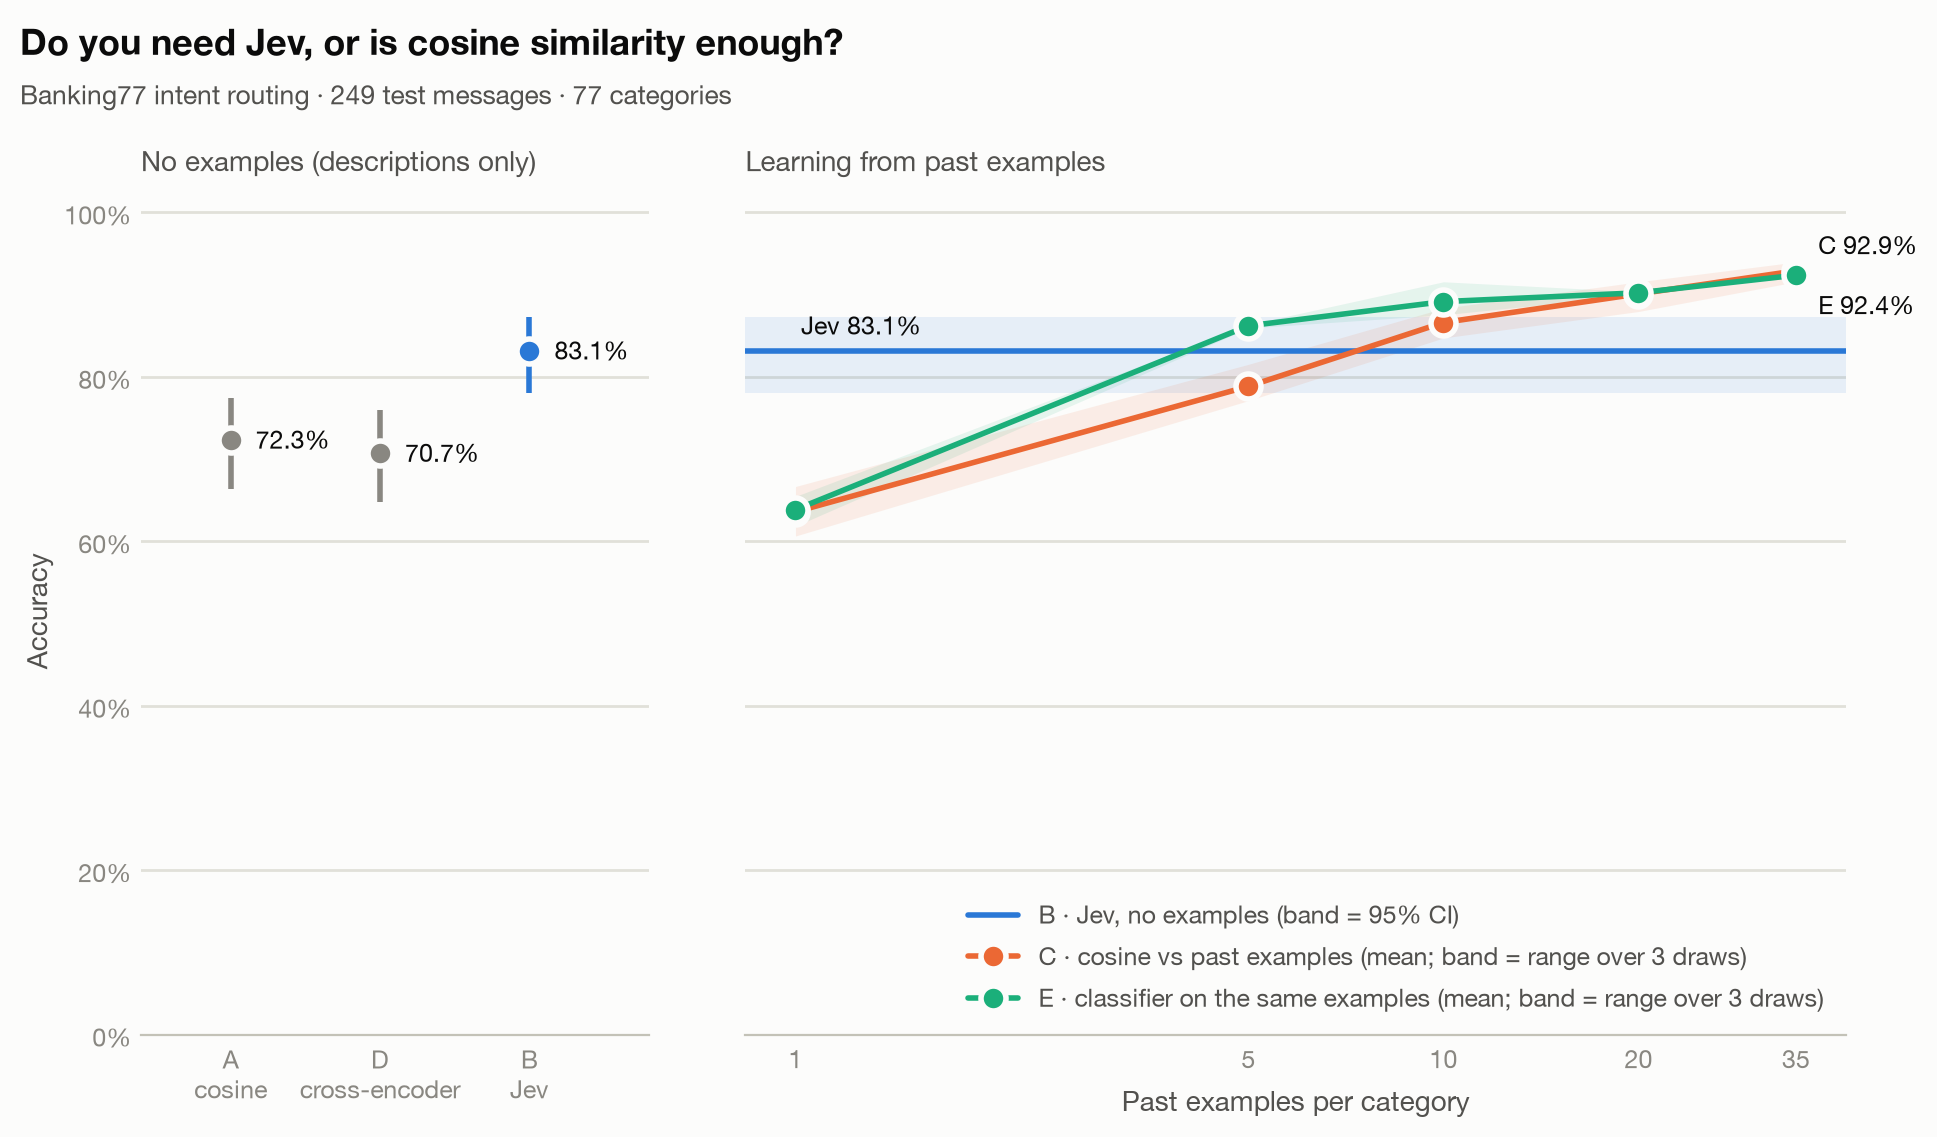
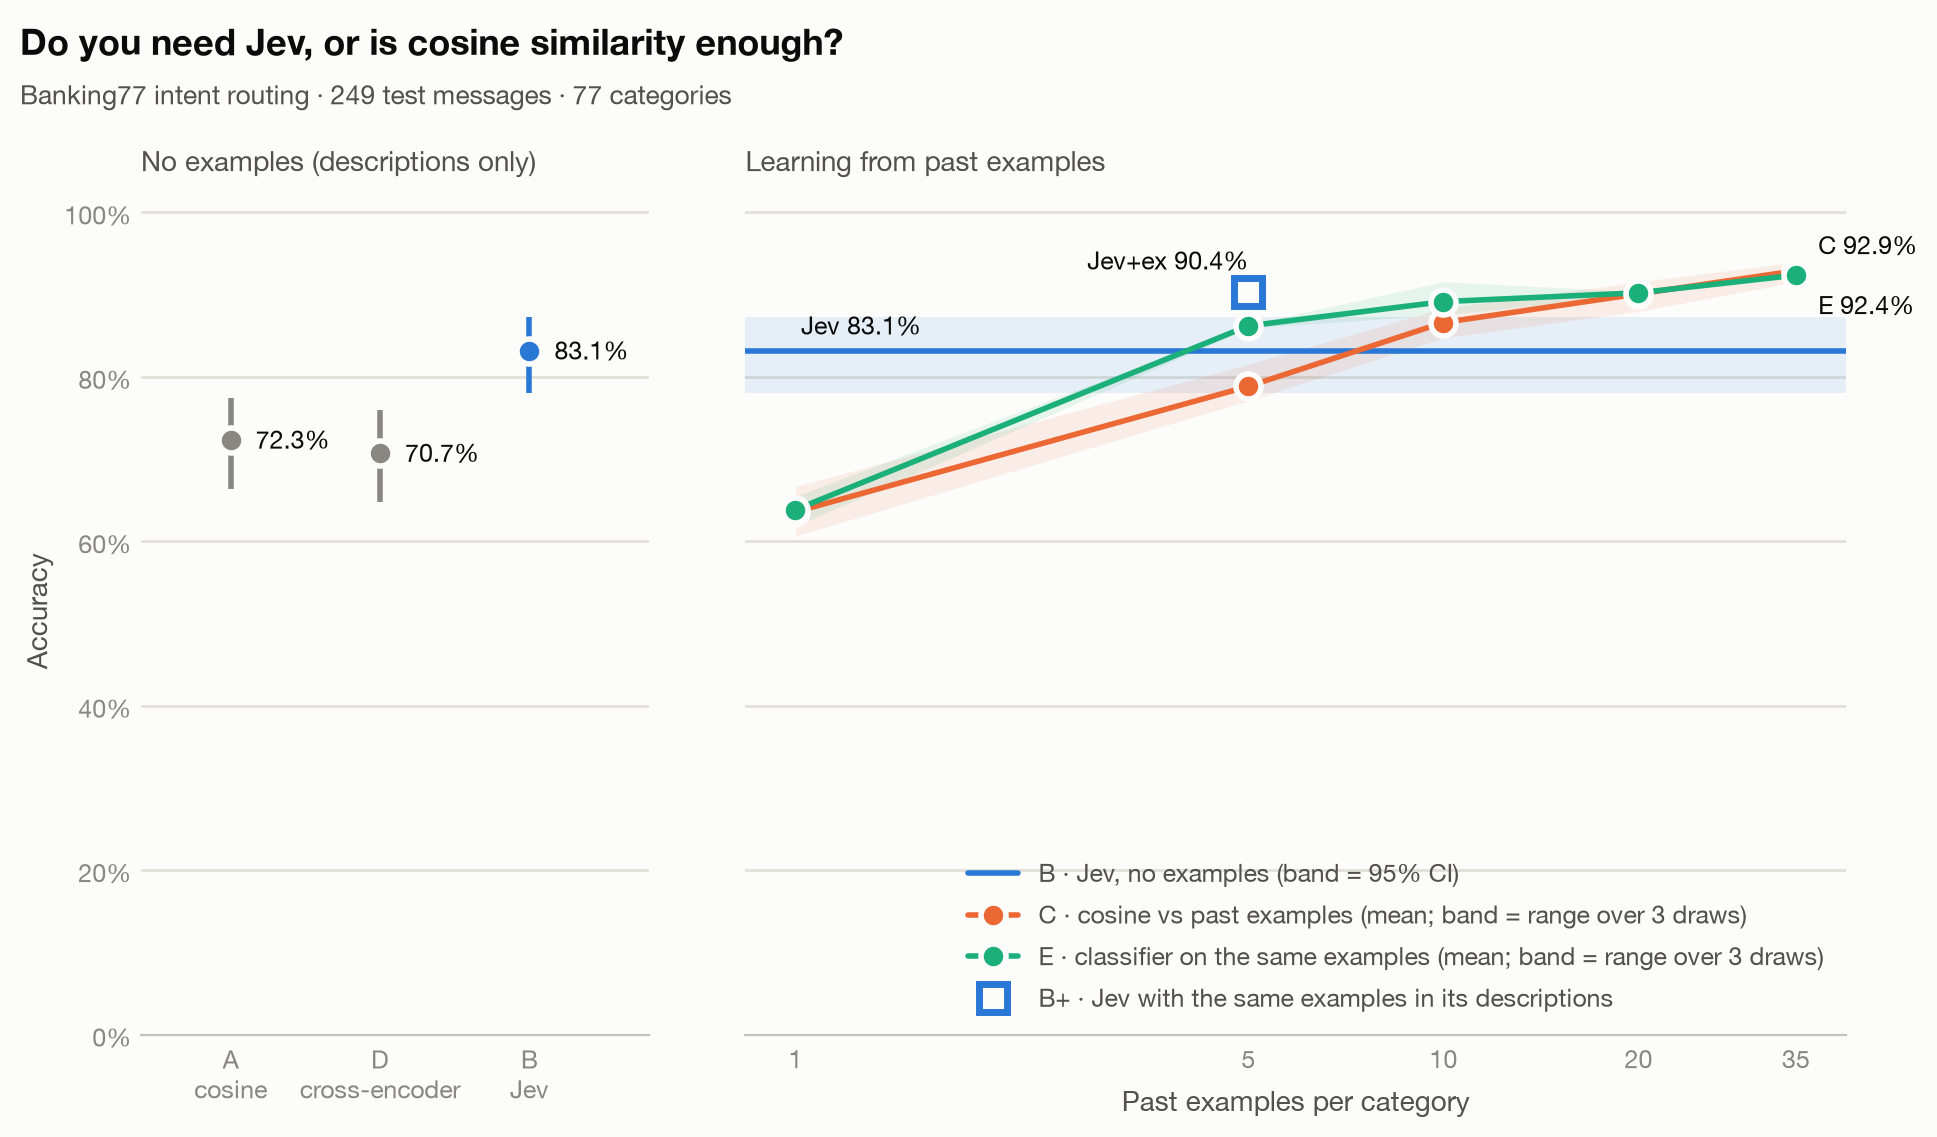
docs: add B+ results (Jev with 5 examples per category)

diff --git a/results/first_249/REPORT.md b/results/first_249/REPORT.md
@@ -4,6 +4,8 @@
 
 A classifier trained on the same past examples (method E) reaches Jev at **5 examples per category**, and scores 92.4% with 35 per category.
 
+Given the same 5 past examples per category inside its descriptions (B+), Jev scores **90.4%** (+7.2 points vs no examples). With those exact examples: C 77.1%, E 86.3%.
+
 A local cross-encoder that reads each message together with each description (method D) scores **70.7%**, -12.4 points vs Jev, at 813 ms per message on CPU.
 
 ![Accuracy vs past examples per category](accuracy_vs_examples.png)
@@ -12,6 +14,7 @@ A local cross-encoder that reads each message together with each description (me
 |---|---|---|---|---|---|---|
 | A · cosine vs descriptions | 0 | 72.3% (66.4%–77.5%) | 7 ms | 11 ms | 0 | $0.0000 |
 | B · Jev | 0 | 83.1% (78.0%–87.3%) | 770 ms | 906 ms | 591,682 | $0.0249 |
+| B+ · Jev with past examples in its descriptions | 5 | 90.4% (86.1%–93.4%) | 820 ms | 1097 ms | 2,184,286 | $0.0917 |
 | D · cross-encoder vs descriptions | 0 | 70.7% (64.7%–76.0%) | 813 ms | 1219 ms | 0 | $0.0000 |
 | C · cosine vs past examples (top-5 vote) | 1 | 63.6% (range 60.6%–66.7% over 3 draws) | 7 ms | 11 ms | 0 | $0.0000 |
 | C · cosine vs past examples (top-5 vote) | 5 | 78.8% (range 77.1%–81.5% over 3 draws) | 7 ms | 11 ms | 0 | $0.0000 |
